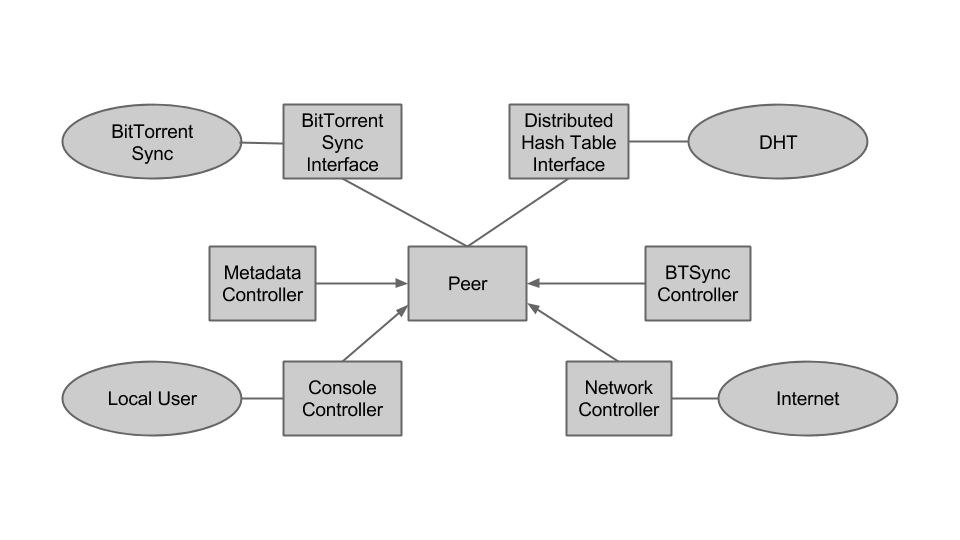
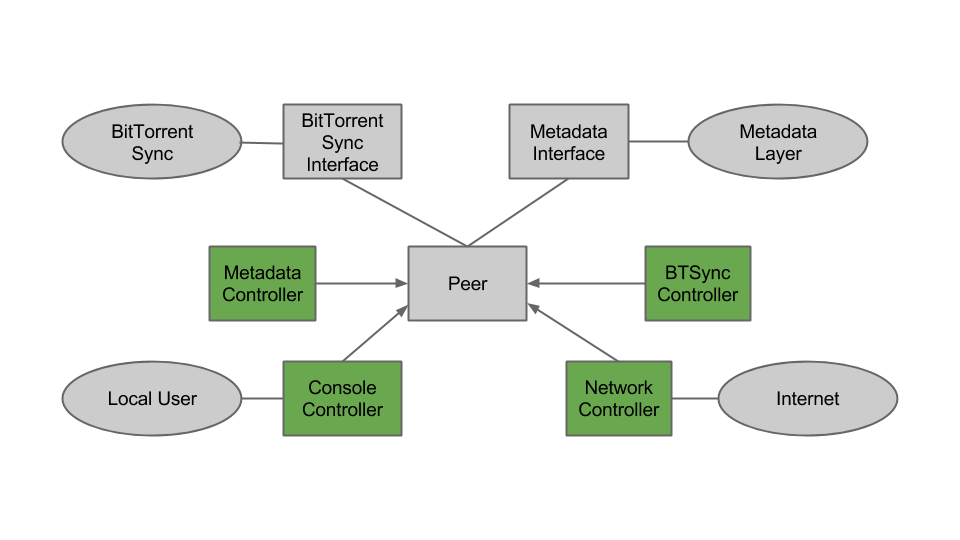
Paper: Add coloring to the system design figure and a sentence describing the coloring.

diff --git a/paper/paper.tex b/paper/paper.tex
@@ -400,7 +400,7 @@ We have designed our system to be modular. We realize that future work on our sy
   \caption{The design of our system \label{fig:SystemDesign}}
 \end{figure}
 
-A high-level overview of our system is offered in Figure \ref{fig:SystemDesign}. We explain each of these components in the following sections. In this figure, the components enclosed in rectangles are internal to our system, while the ones in ovals are external. Connections with arrowheads represent a unidirectional flow of information, while connections with no arrowheads represent a bidirectional flow of information.
+A high-level overview of our system is offered in Figure \ref{fig:SystemDesign}. We explain each of these components in the following sections. In this figure, the components enclosed in rectangles are internal to our system, while the ones in ovals are external. Connections with arrowheads represent a unidirectional flow of information, while connections with no arrowheads represent a bidirectional flow of information. Components that are colored green are part of the system core.
 
 \subsection{The Data Layer}
 % TODO: find out how many unique secret prefixes there are, factoring that into the calculation of how many unique addresses there are.
@@ -445,7 +445,7 @@ Through the use of the $backup$ command, the Console Controller is the part of o
 
 There is still a problem with this approach, however. A system which moves the user's files would be inconvenient, since it ruins the way in which the user's files are organized. Furthermore, if the files being backed up need to be in a specific location (e.g. they are used as part of a program that looks for the file on a particular path), then the system is not usable. Creating a copy of each backed up file is not feasible either, since users may backup large quantities of data.
 
-To solve all of these problems, we make use of the system's hard link mechanism. When a new backup is created, the new directory is created, as stated above. Instead of moving or copying the file, however, we create a hard link that references the same data as the file to back up. By doing this, the data is not duplicated. This not only saves storage space, but also allows BitTorrent Sync to backup files without needing to create new directories outside of the directory tree specifically created for our program. 
+To solve all of these problems, we make use of the system's hard link mechanism. When a new backup is created, the new directory is created, as stated above. Instead of moving or copying the file, however, we create a hard link that references the same data as the file to back up. By doing this, the data is not duplicated. This not only saves storage space, but also allows BitTorrent Sync to backup files without needing to create new directories outside of the directory tree specifically created for our program.
 
 % TODO when rm command is added, mention the required use of it when a user wants to delete a file so that our program knows to delete this hardlink
 
